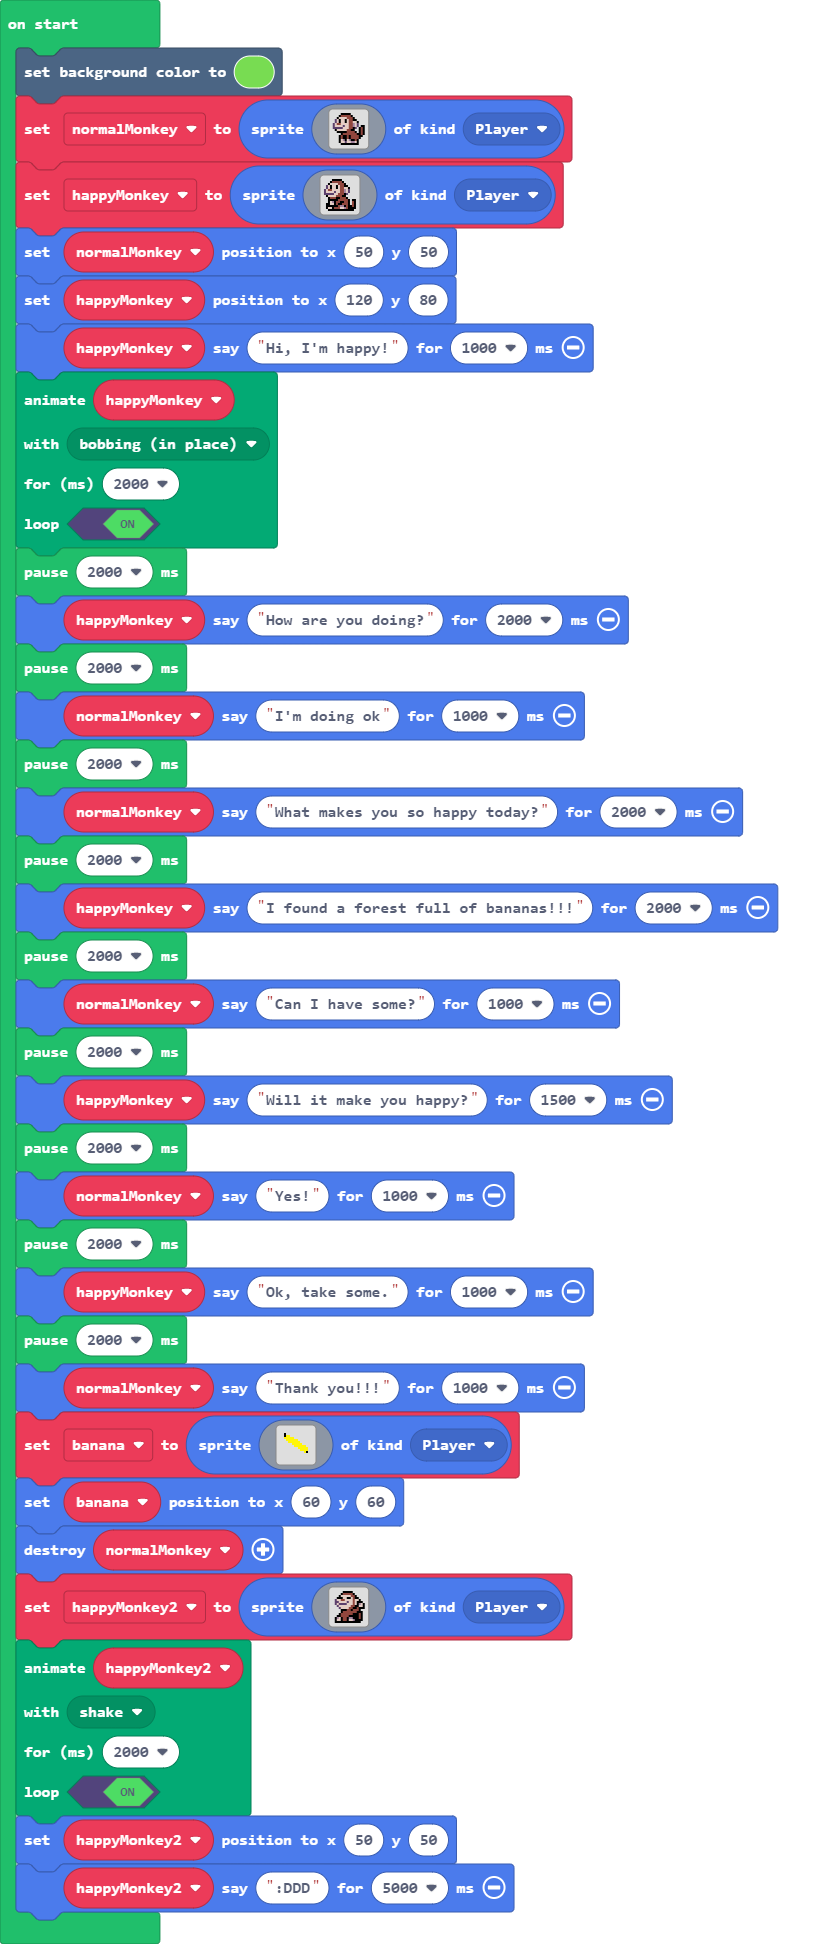
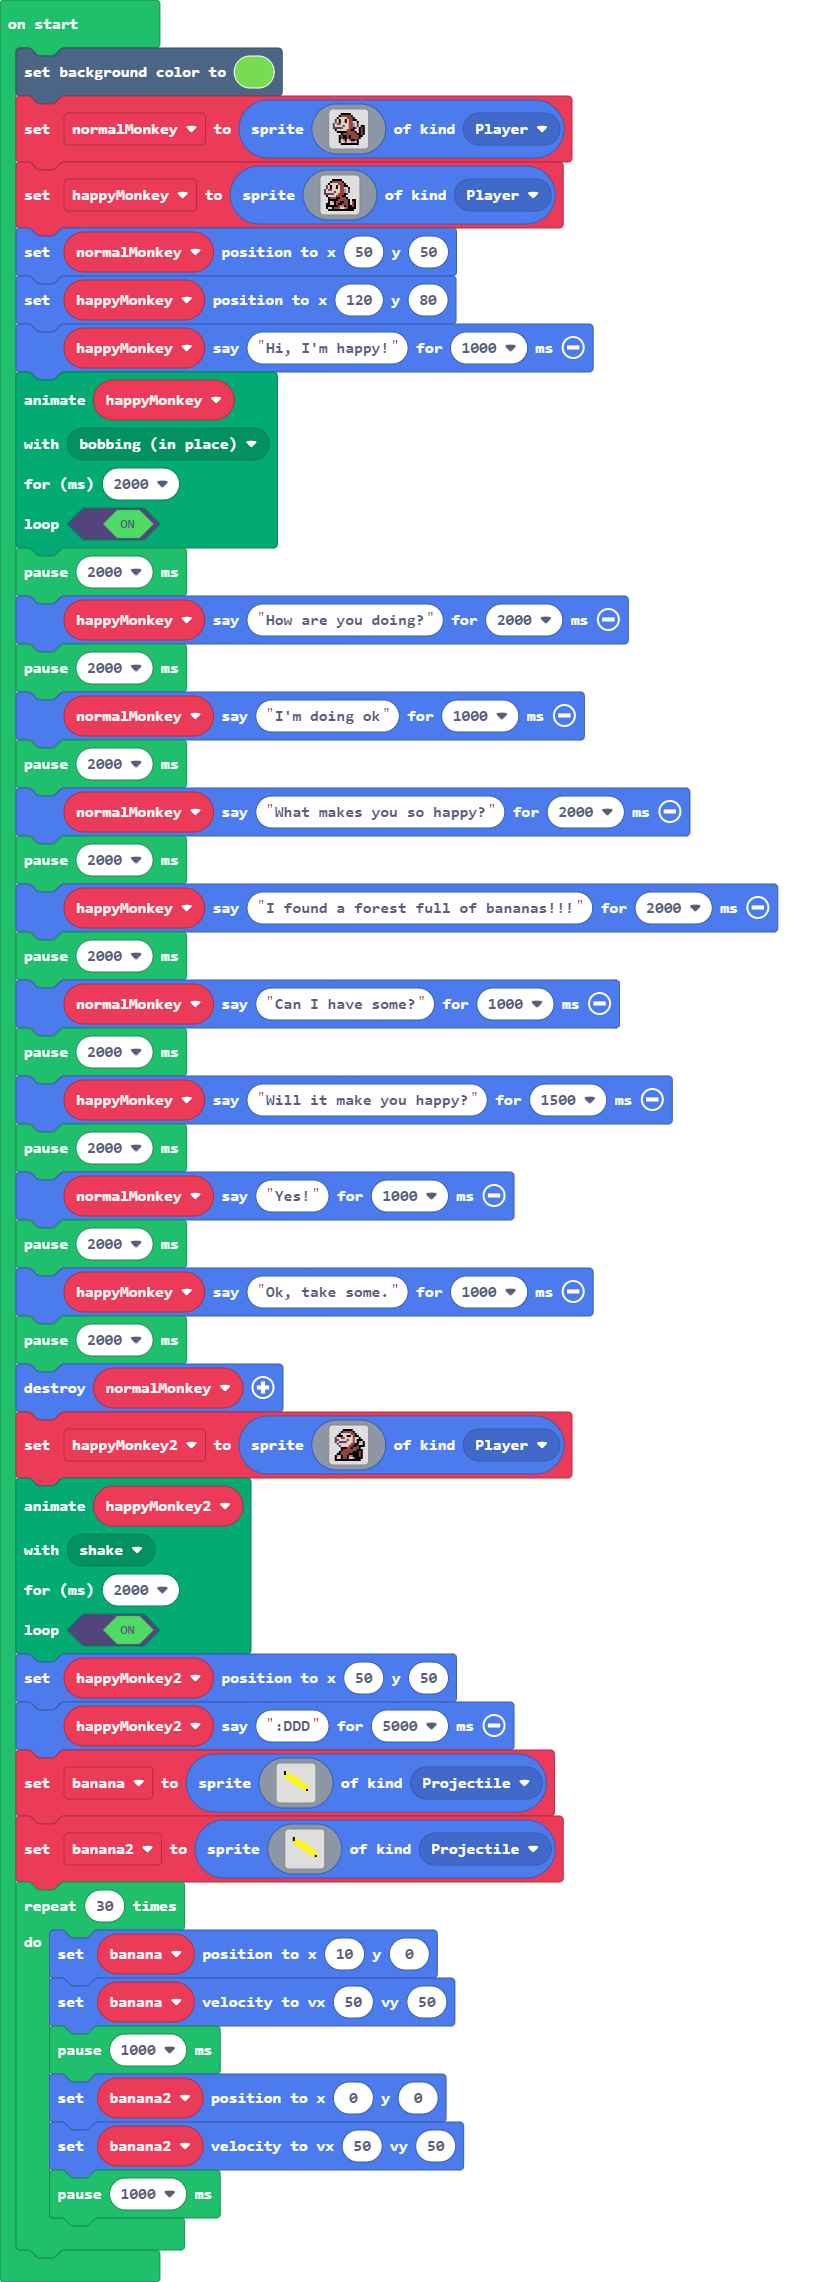
Update main.blocks, main.ts

diff --git a/main.ts b/main.ts
@@ -49,7 +49,7 @@ happyMonkey.say("How are you doing?", 2000)
 pause(2000)
 normalMonkey.say("I'm doing ok", 1000)
 pause(2000)
-normalMonkey.say("What makes you so happy today?", 2000)
+normalMonkey.say("What makes you so happy?", 2000)
 pause(2000)
 happyMonkey.say("I found a forest full of bananas!!!", 2000)
 pause(2000)
@@ -61,26 +61,6 @@ normalMonkey.say("Yes!", 1000)
 pause(2000)
 happyMonkey.say("Ok, take some.", 1000)
 pause(2000)
-normalMonkey.say("Thank you!!!", 1000)
-let banana = sprites.create(img`
-    . . . . . . . . . . . . . . . . 
-    . . . . . . . . . . . . . . . . 
-    . . f . . . . . . . . . . . . . 
-    . . f 5 5 . . . . . . . . . . . 
-    . . 5 5 5 5 5 . . . . . . . . . 
-    . . . 5 5 5 5 5 5 . . . . . . . 
-    . . . . 5 5 5 5 5 5 . . . . . . 
-    . . . . . . 5 5 5 5 5 . . . . . 
-    . . . . . . . 5 5 5 5 5 5 . . . 
-    . . . . . . . . . 5 5 5 5 5 . . 
-    . . . . . . . . . . 5 5 5 5 . . 
-    . . . . . . . . . . . . 5 f . . 
-    . . . . . . . . . . . . . . . . 
-    . . . . . . . . . . . . . . . . 
-    . . . . . . . . . . . . . . . . 
-    . . . . . . . . . . . . . . . . 
-    `, SpriteKind.Player)
-banana.setPosition(60, 60)
 normalMonkey.destroy()
 let happyMonkey2 = sprites.create(img`
     . . . . . f f f f f . . . . . . 
@@ -108,3 +88,47 @@ true
 )
 happyMonkey2.setPosition(50, 50)
 happyMonkey2.say(":DDD", 5000)
+let banana = sprites.create(img`
+    . . . . . . . . . . . . . . . . 
+    . . . . . . . . . . . . . . . . 
+    . . f . . . . . . . . . . . . . 
+    . . f 5 5 . . . . . . . . . . . 
+    . . 5 5 5 5 5 . . . . . . . . . 
+    . . . 5 5 5 5 5 5 . . . . . . . 
+    . . . . 5 5 5 5 5 5 . . . . . . 
+    . . . . . . 5 5 5 5 5 . . . . . 
+    . . . . . . . 5 5 5 5 5 5 . . . 
+    . . . . . . . . . 5 5 5 5 5 . . 
+    . . . . . . . . . . 5 5 5 5 . . 
+    . . . . . . . . . . . . 5 f . . 
+    . . . . . . . . . . . . . . . . 
+    . . . . . . . . . . . . . . . . 
+    . . . . . . . . . . . . . . . . 
+    . . . . . . . . . . . . . . . . 
+    `, SpriteKind.Projectile)
+let banana2 = sprites.create(img`
+    . . . . . . . . . . . . . . . . 
+    . . . . . . . . . . . . . . . . 
+    . . f . . . . . . . . . . . . . 
+    . . f 5 5 . . . . . . . . . . . 
+    . . 5 5 5 5 5 . . . . . . . . . 
+    . . . 5 5 5 5 5 5 . . . . . . . 
+    . . . . 5 5 5 5 5 5 . . . . . . 
+    . . . . . . 5 5 5 5 5 . . . . . 
+    . . . . . . . 5 5 5 5 5 5 . . . 
+    . . . . . . . . . 5 5 5 5 5 . . 
+    . . . . . . . . . . 5 5 5 5 . . 
+    . . . . . . . . . . . . 5 f . . 
+    . . . . . . . . . . . . . . . . 
+    . . . . . . . . . . . . . . . . 
+    . . . . . . . . . . . . . . . . 
+    . . . . . . . . . . . . . . . . 
+    `, SpriteKind.Projectile)
+for (let index = 0; index < 30; index++) {
+    banana.setPosition(10, 0)
+    banana.setVelocity(50, 50)
+    pause(1000)
+    banana2.setPosition(0, 0)
+    banana2.setVelocity(50, 50)
+    pause(1000)
+}
